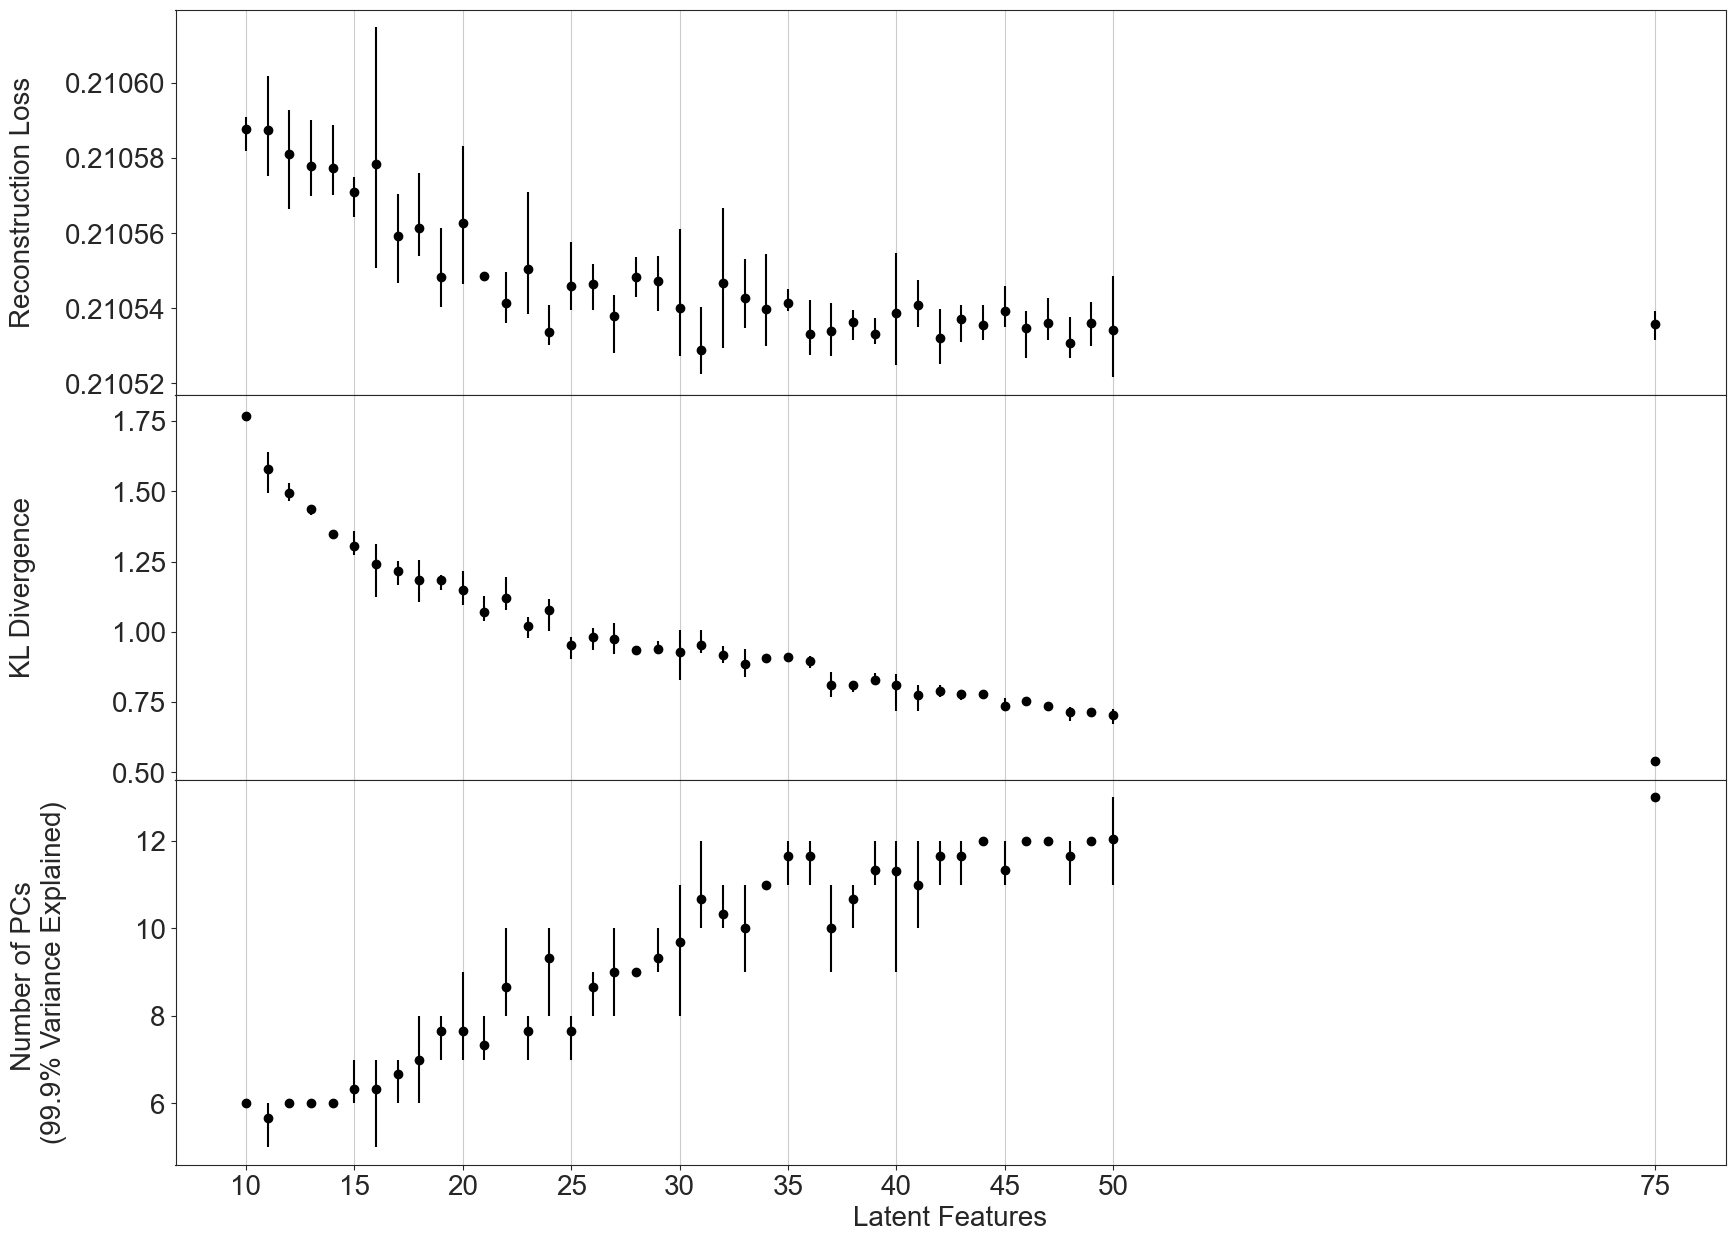
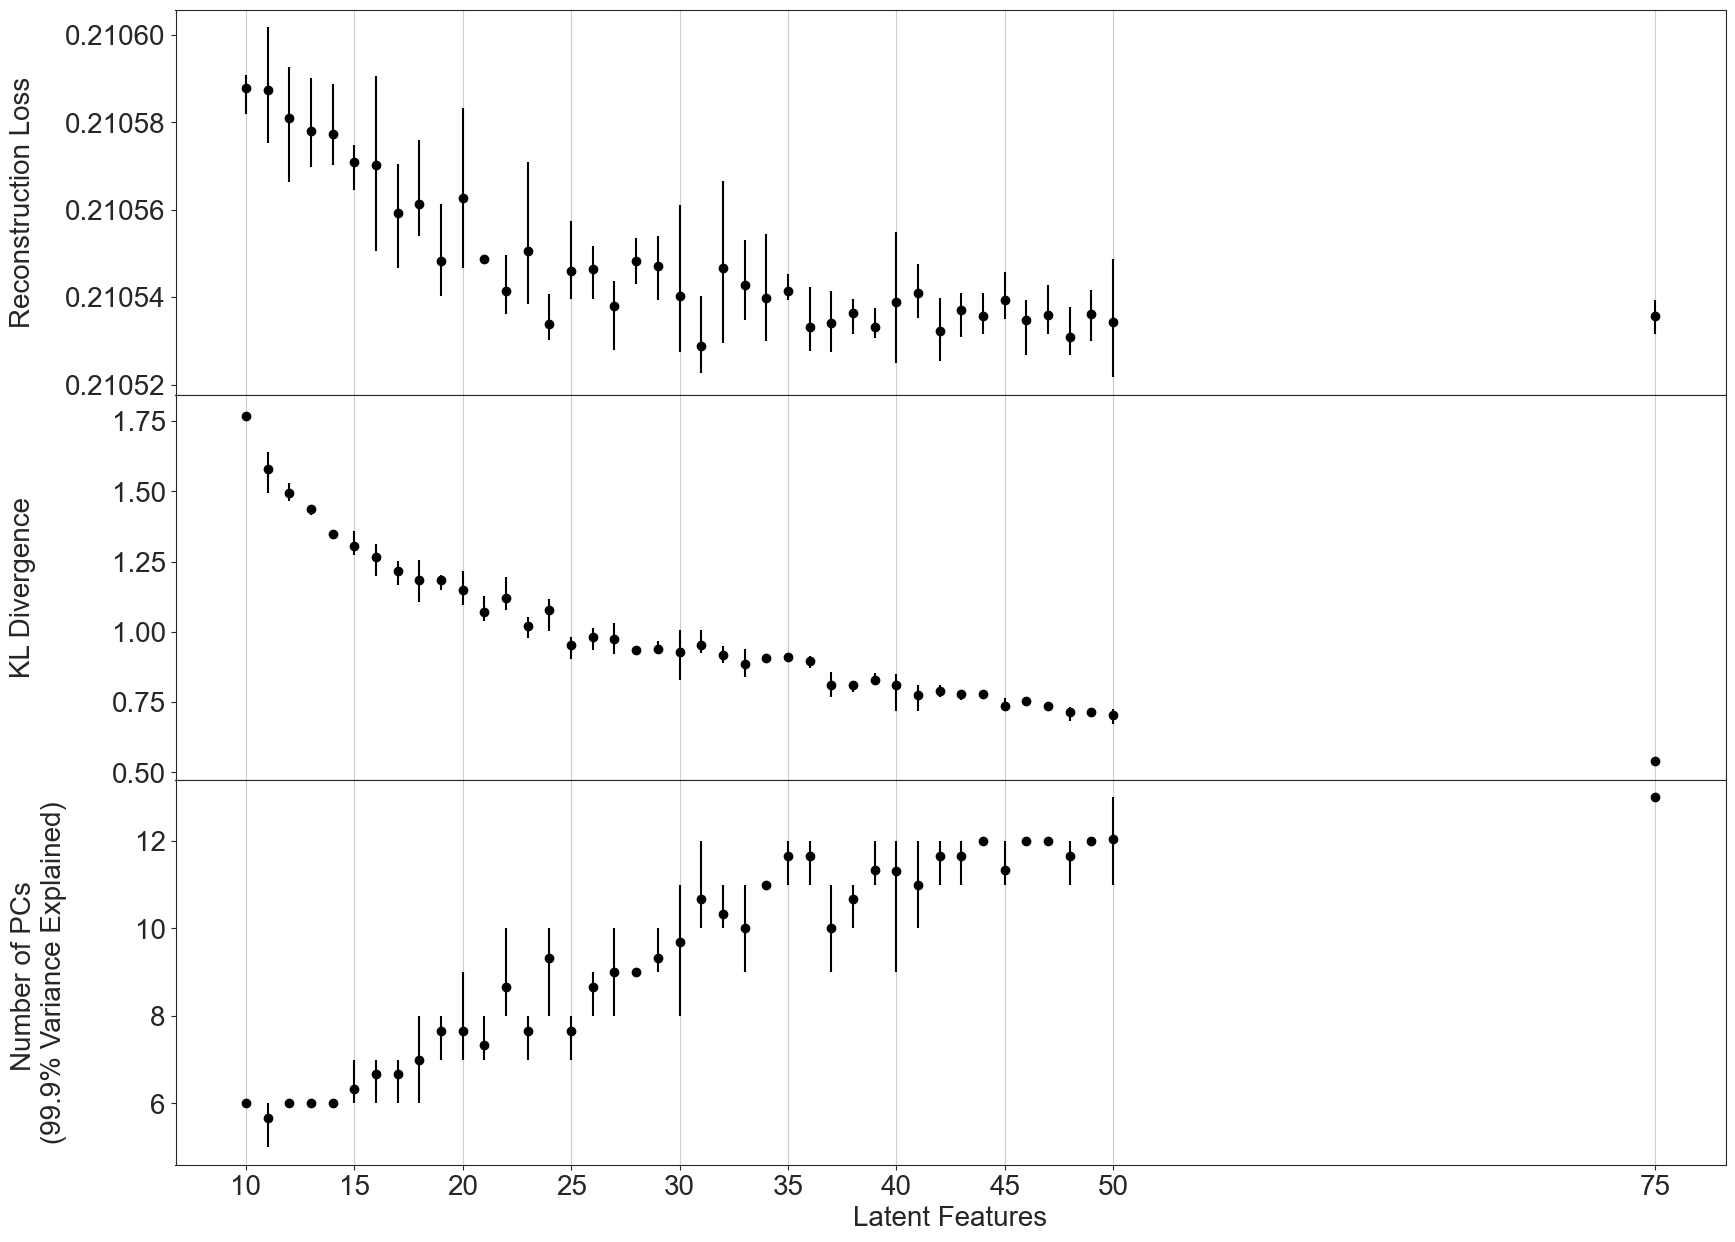
Code

diff --git a/optimal_features.py b/optimal_features.py
@@ -32,6 +32,7 @@ batch_size = 32
 
 
 reconstruction_losses = []
+residuals = []
 kl_losses = []
 num_components = []
 
@@ -39,10 +40,11 @@ num_components = []
 for encoding_dim in list(range(10, 51)) + [75]:
 
     latent_reconstruction_losses = []
+    latent_residuals = []
     latent_kl_losses = []
     latent_num_components = []
 
-    for run in range(1, 26):
+    for run in range(1, 4):
 
         try:
 
@@ -57,19 +59,30 @@ for encoding_dim in list(range(10, 51)) + [75]:
             components = pca.components_.shape[0]
             latent_num_components.append(components)
 
-        except:
+            residual = np.load("Variational Eagle/Loss/Normalising Flow Balanced/planar_new_latent_" + str(encoding_dim) + "_beta_" + beta_name + "_epoch_" + str(epochs) + "_flows_" + str(n_flows) + "_" + str(run) + "_default_individual_residual.npy")
+            residual = np.mean(residual)
+            latent_residuals.append(residual)
+
+        except Exception as e:
             # pass
+            print(e)
+            # print(encoding_dim, run)
 
-            if encoding_dim == 40:
-                print(encoding_dim, run)
-
-            if encoding_dim == 50:
-                print(encoding_dim, run)
+            # if encoding_dim == 40:
+            #     print(encoding_dim, run)
+            #
+            # if encoding_dim == 50:
+            #     print(encoding_dim, run)
 
     if encoding_dim == 16:
         print(latent_reconstruction_losses)
 
     # find min, max and median for losses and number of components, and append onto other latent features as a sublist
+
+    print(len(latent_reconstruction_losses))
+    print(len(latent_residuals))
+    print(len(latent_kl_losses))
+    print(len(latent_num_components))
 
     min_reconstruction = min(latent_reconstruction_losses)
     med_reconstruction = np.mean(latent_reconstruction_losses)
@@ -180,7 +193,7 @@ axs[2].grid(axis="x")
 
 fig.subplots_adjust(hspace=0.0)
 
-plt.savefig("Variational Eagle/Plots/optimal_features_mean_75", bbox_inches="tight")
+plt.savefig("Variational Eagle/Plots/optimal_features_mean_75_residual", bbox_inches="tight")
 plt.show()
 
 

diff --git a/planar_flow_vae_eagle.py b/planar_flow_vae_eagle.py
@@ -292,9 +292,8 @@ print()
 # for run, encoding_dim in [[4, 40], [5, 40], [6, 40], [7, 40], [8, 40], [9, 40], [10, 40], [4, 50], [5, 50], [6, 50], [7, 50], [8, 50], [9, 50], [10, 50]]:
 # for run in [1, 2, 3]:
 # for run in range(17, 26):
-# for encoding_dim in range(10, 26):
+for encoding_dim in range(10, 26):
 # for encoding_dim in [20, 21, 22, 23, 24, 25]:
-for run in [run]:
 
 
 
@@ -531,12 +530,12 @@ for run in [run]:
 
 
     # train the model
-    model_loss = vae.fit(train_images, epochs=epochs, batch_size=batch_size)
+    # model_loss = vae.fit(train_images, epochs=epochs, batch_size=batch_size)
 
     vae.build(input_shape=(None, 256, 256, 3))
 
     # or load the weights from a previous run
-    # vae.load_weights("Variational Eagle/Weights/Normalising Flow Balanced/planar_new_latent_" + str(encoding_dim) + "_beta_" + beta_name + "_epoch_" + str(epochs) + "_flows_" + str(n_flows) + "_" + str(run) + "_default.weights.h5")
+    vae.load_weights("Variational Eagle/Weights/Normalising Flow Balanced/planar_new_latent_" + str(encoding_dim) + "_beta_" + beta_name + "_epoch_" + str(epochs) + "_flows_" + str(n_flows) + "_" + str(run) + "_default.weights.h5")
 
     # save the weights
     vae.save_weights(filepath="Variational Eagle/Weights/Normalising Flow Balanced/planar_new_latent_" + str(encoding_dim) + "_beta_" + beta_name + "_epoch_" + str(epochs) + "_flows_" + str(n_flows) + "_" + str(run) + "_default.weights.h5", overwrite=True)
